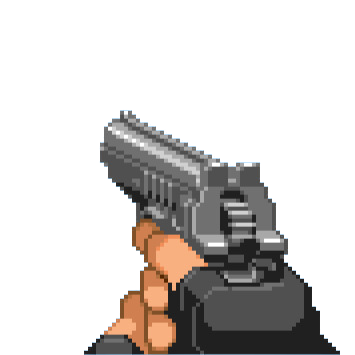
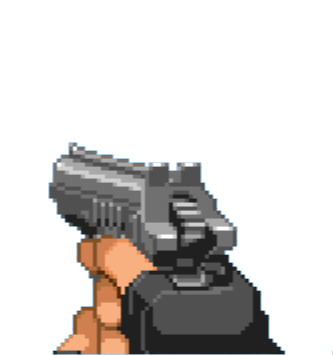
Add the Gun Animation as close as I think.

Changed region(s): [[0.1201, 0.3099, 0.961, 1.0], [0.991, 0.9915, 1.0, 1.0]]

diff --git a/assets/js/js.js b/assets/js/js.js
@@ -1,57 +1,122 @@
+/*all the function control through here*/
 $(".area").on("click", function () {
-    sound();
-
+    faceSpawns();
     gunAnimation();
+    sound();
 });
 
-function sound() {
-    let audio = document.getElementById("audio");
+/*sound animation*/
+{
+    function sound() {
+        let audio = document.getElementById("audio");
 
-    if (audio.paused) {
-        audio.currentTime = 0;
-        audio.play();
-        // Remove the "ended" event listener after the first play
-        audio.removeEventListener("ended", loopAudio);
-    } else {
-        audio.pause();
+        if (audio.paused) {
+            audio.currentTime = 0;
+            audio.play();
+            // Remove the "ended" event listener after the first play
+            audio.removeEventListener("ended", loopAudio);
+        } else {
+            audio.pause();
+        }
     }
 }
 
 /*gun animation*/
+{
+    let gunFire = ["assets/img/pistol/1.png", "assets/img/pistol/2.png", "assets/img/pistol/3.png",
+        "assets/img/pistol/4.png", "assets/img/pistol/5.png"];
 
-let gunFire = ["assets/img/pistol/2.png", "assets/img/pistol/3.png",
-    "assets/img/pistol/4.png", "assets/img/pistol/5.png", "assets/img/pistol/6.png"];
+    let currentIndex = 0;
+    let gunImage = document.getElementById("gunImage");
 
-let currentIndex = 0;
-const gunImage  = document.getElementById("gunImage");
+    function gunAnimation() {
+        let interval = setInterval(() => {
+            gunImage.src = gunFire[currentIndex];
+            currentIndex = (currentIndex + 1) % gunFire.length;
+        }, 100); // Time interval between each image change (adjust as needed)
 
-function gunAnimation() {
-
-    gunImage.src = gunFire[currentIndex];
-    currentIndex =(currentIndex + 1) % gunFire.length;
-
+        // After some time, stop the animation and show the default image
+        setTimeout(() => {
+            clearInterval(interval);
+            gunImage.src = "assets/img/pistol/1.png"; // Set the default image
+        }, 500); // Total animation time (adjust as needed)
+    }
 }
 
+/*face spawns*/
+{
+    var start = new Date().getTime();
+    var end = new Date().getTime();
+    var time = ((end - start) / 1000); // execution time
 
-function startTimer(duration, display) {
-    let timer = duration, minutes, seconds;
-    setInterval(function () {
-        minutes = parseInt(timer / 60, 10);
-        seconds = parseInt(timer % 60, 10);
+    function faceSpawns() {
+        function shapeAppear() {
+            // random appearing location
+            var top = Math.random() * 500;
+            var left = Math.random() * 500;
 
-        minutes = minutes < 10 ? "0" + minutes : minutes;
-        seconds = seconds < 10 ? "0" + seconds : seconds;
+            document.getElementById("faces").style.display = "block";
 
-        display.textContent = minutes + ":" + seconds;
+            start = new Date().getTime();
 
-        if (--timer < 0) {
-            timer = duration;
+            document.getElementById("faces").style.top = top + "px";
+            document.getElementById("faces").style.left = left + "px";
+
+            // change the shape of the element
+            document.getElementById("faces").style.borderRadius = "50%";
+
+            // face change with the time get
+            if (time < 1) {
+                document.getElementById("faces").style.backgroundColor = "greenyellow";
+            } else if (time >= 1 && time < 2) {
+                document.getElementById("faces").style.backgroundColor = "dodgerblue";
+            } else if (time >= 2) {
+                document.getElementById("faces").style.backgroundColor = "red";
+            }
         }
-    }, 1000);
+
+        function shapeAppearDelay() {
+            setTimeout(shapeAppear, Math.random() * 1500);
+        }
+
+        shapeAppearDelay();
+
+        document.getElementById("faces").onclick = function () {
+            document.getElementById("faces").style.display = "none";
+
+            end = new Date().getTime();
+            time = ((end - start) / 1000); // execution time
+
+            // set the time
+            // document.getElementById("time").innerHTML = time + "s";
+
+            shapeAppearDelay();
+        }
+    }
 }
 
-window.onload = function () {
-    let oneMinute = 60,
-        display = document.getElementById("timer");
-    startTimer(oneMinute, display);
-};
+/*one minute timer*/
+{
+    function startTimer(duration, display) {
+        let timer = duration, minutes, seconds;
+        setInterval(function () {
+            minutes = parseInt(timer / 60, 10);
+            seconds = parseInt(timer % 60, 10);
+
+            minutes = minutes < 10 ? "0" + minutes : minutes;
+            seconds = seconds < 10 ? "0" + seconds : seconds;
+
+            display.textContent = minutes + ":" + seconds;
+
+            if (--timer < 0) {
+                timer = duration;
+            }
+        }, 1000);
+    }
+
+    window.onload = function () {
+        let oneMinute = 60,
+            display = document.getElementById("timer");
+        startTimer(oneMinute, display);
+    }
+}

diff --git a/index.html b/index.html
@@ -34,13 +34,15 @@
 
 <section class="area">
 
+    <img id="faces" alt="Face Targets" onclick="faceSpawns()" src="assets/img/faces/1.png" height="50" width="50"/>
+
     <audio id="audio" src="assets/audio/blaster.mp3"></audio>
 
 </section>
 
 
 <section class="gun">
-    <img id="gunImage" alt="Gun Image" onclick="gunAnimation()" src="assets/img/pistol/6.png" height="355" width="333"/>
+    <img id="gunImage" alt="Gun Image" onclick="gunAnimation()" src="assets/img/pistol/1.png" height="355" width="333"/>
 </section>
 
 <script src="assets/js/jquery-3.7.0.min.js"></script>

diff --git a/assets/css/styles.css b/assets/css/styles.css
@@ -8,6 +8,10 @@ section.gun > img {
     right: 400px;
 }
 
+#gunImage {
+    /*transition: opacity 1s ease-in-out; !* Adjust the transition duration as needed *!*/
+}
+
 section.info {
     position: relative;
     top: 0;
@@ -27,7 +31,7 @@ section.info {
     margin-top: -11px;
 }
 
-#timer{
+#timer {
     position: absolute;
     left: 100px;
     margin-top: -6px;
@@ -45,4 +49,10 @@ section.area {
 * {
     font-family: Poppins;
     color: white;
+}
+
+#faces {
+    width: 50px;
+    height: 50px;
+    display: none;
 }
